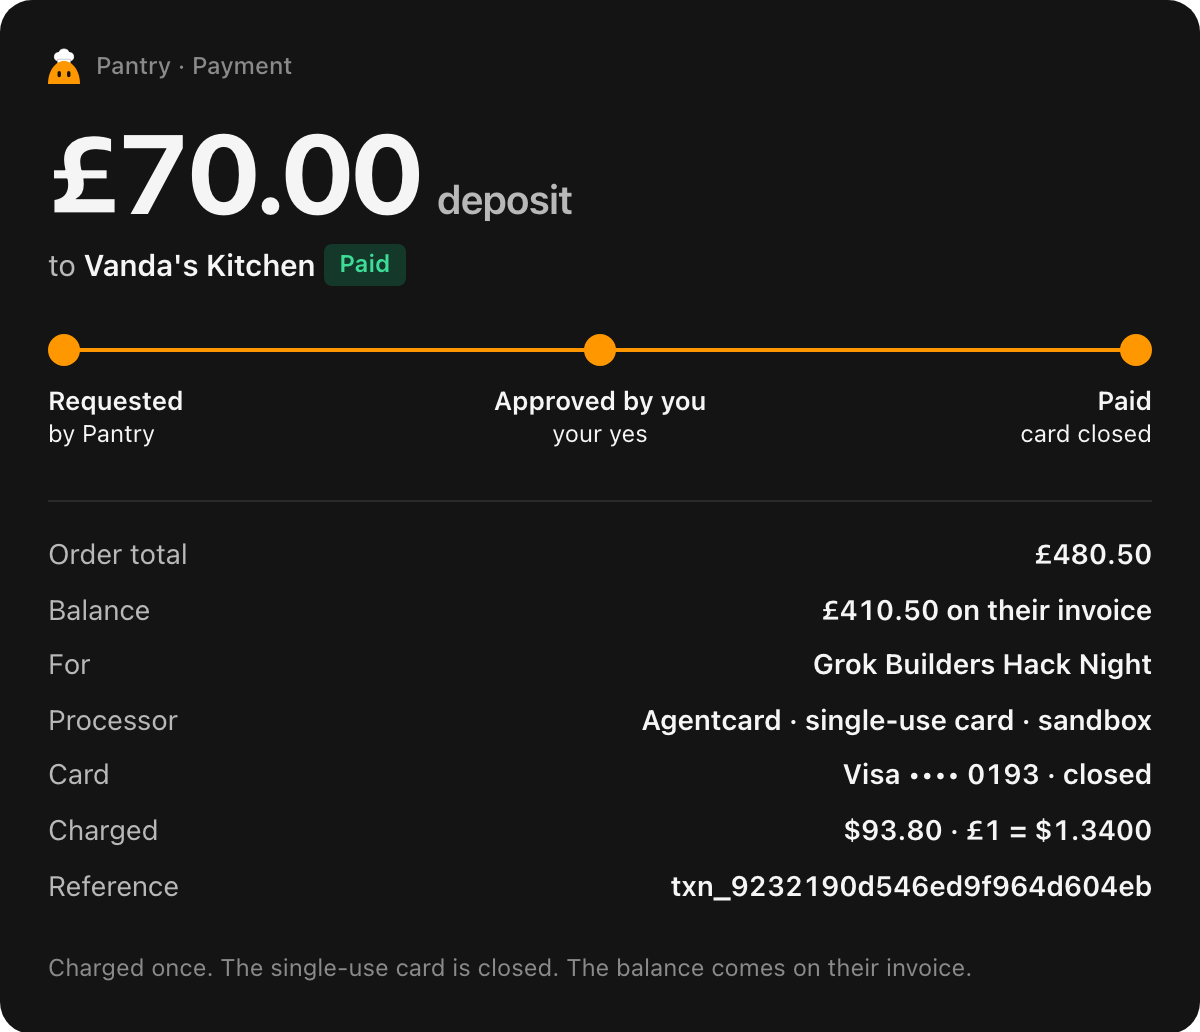
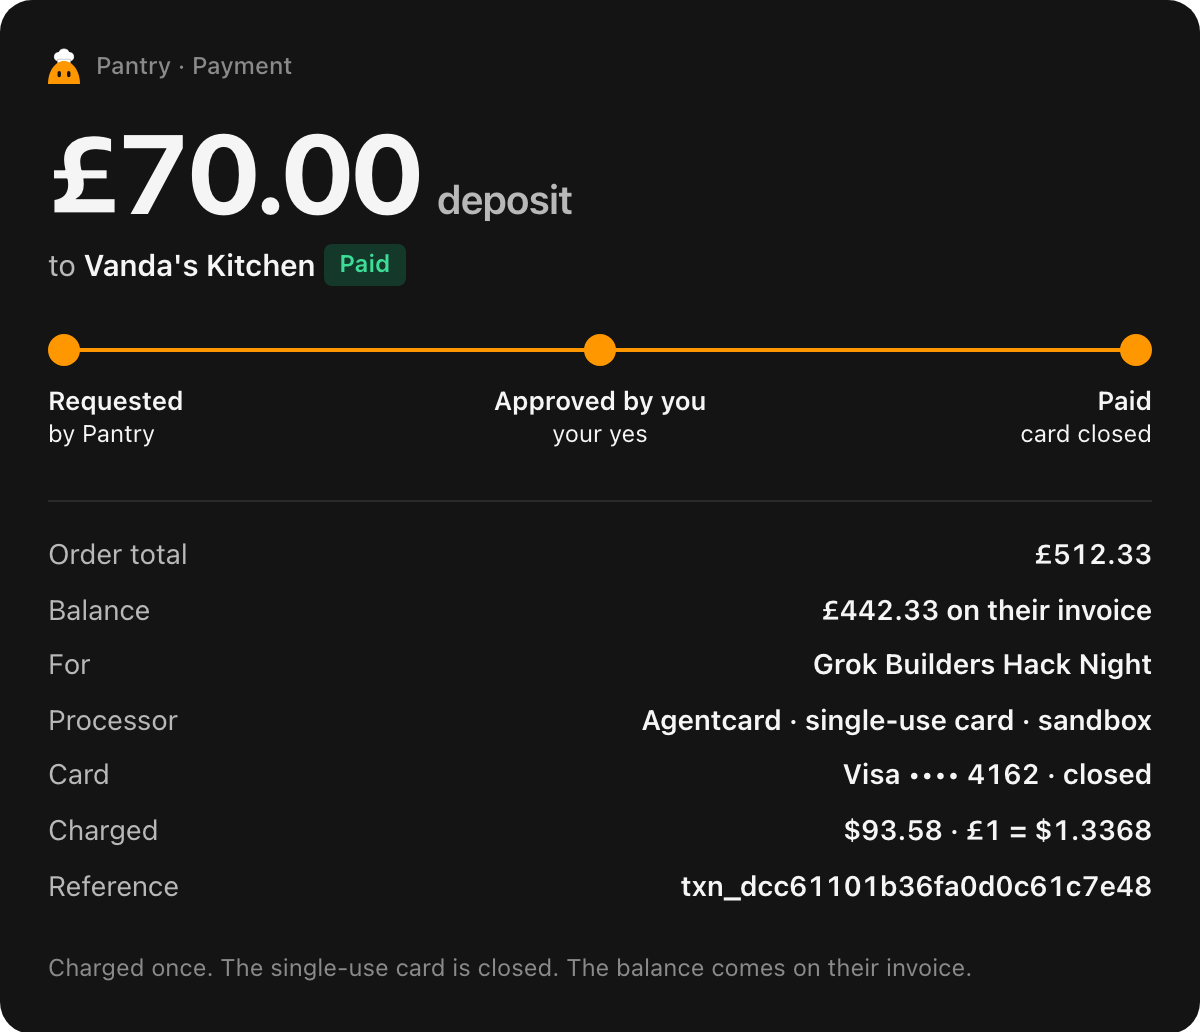
Stage: recordings pace the plays to their narration; the Grok driver waits for answers
- index.html: ?pace= stretches the plays, ?cues.<play>= sets one play's cue times in seconds.
- bin/grok: wait (until Pantry has finished, from Grok Bot's own "is working" status), busy in
  state, image ... recent (only a card in the newest messages), and the viewer's close button.
- How it works shows cards from the real plan: £512.33, the coeliac meal, the £70 deposit receipt.

diff --git a/story/streamdeck/src/grok.swift b/story/streamdeck/src/grok.swift
@@ -3,12 +3,13 @@
 //   grok prompt "<text>"    put the text in Pantry's message box (doesn't send)
 //   grok send               press Send message
 //   grok pantry             open Pantry's chat
-//   grok image [n]          open the nth-from-last card in the chat full screen (1 = the latest)
+//   grok image [n] [recent] open the nth-from-last card full screen (1 = the latest); recent: only if it's new
 //   grok close              close the full-screen image (or any open dialog)
 //   grok compact on|off     the compact sidebar (on hides the other Bots' names)
 //   grok fill [left|right]  fit the window to the screen it's on, below the menu bar (or its left/right half)
 //   grok at x y w h         move and size the window (points, top-left origin)
-//   grok state              JSON: frontmost app, chat, composer text, send button, window frame
+//   grok wait [seconds]     wait until Pantry has finished working (default up to 300 s); prints how long it took
+//   grok state              JSON: frontmost app, chat, busy, composer text, send button, images, window frame
 // Needs Accessibility for the terminal (or app) that runs it.
 import AppKit
 import ApplicationServices
@@ -52,6 +53,8 @@ func chatName() -> String {
   walk(header)
   return name
 }
+// While a Bot is replying, Grok Bot keeps an accessibility status line: "<Bot> is working".
+func busy() -> Bool { elements().contains { str($0, kAXRoleAttribute) == "AXStaticText" && str($0, kAXValueAttribute).hasSuffix(" is working") } }
 func setFrame(_ r: CGRect) {
   guard let w = mainWindow() else { die("No Grok Bot window.") }
   var p = r.origin, s = r.size
@@ -92,9 +95,11 @@ case "image":
   let n = a.count > 2 ? max(1, Int(a[2]) ?? 1) : 1
   let images = find("AXButton", "Open image full screen")
   guard images.count >= n else { die("Only \(images.count) images in view.") }
+  // "recent": only an image in the newest messages, near the bottom of the window, never an old one.
+  if a.contains("recent"), let w = mainWindow().map(frame), frame(images[images.count - 1]).maxY < w.maxY - 260 { die("No new image at the bottom of the chat.") }
   print(press(images[images.count - n]) ? "opened image \(n) from the end" : "couldn't open it")
 case "close":
-  let close = elements().filter { str($0, kAXRoleAttribute) == "AXButton" && ["Close", "Close image", "Close viewer", "Close full screen"].contains(label($0)) }
+  let close = elements().filter { str($0, kAXRoleAttribute) == "AXButton" && ["Close media preview", "Close", "Close image", "Close viewer"].contains(label($0)) }
   guard let c = close.last else { die("Nothing open to close.") }
   print(press(c) ? "closed" : "couldn't close")
 case "compact":
@@ -113,10 +118,20 @@ case "at":
   guard a.count > 5, let x = Double(a[2]), let y = Double(a[3]), let w = Double(a[4]), let h = Double(a[5]) else { die("usage: grok at x y w h") }
   setFrame(CGRect(x: x, y: y, width: w, height: h))
   print("window", mainWindow().map(frame).map { "\(Int($0.minX)),\(Int($0.minY)) \(Int($0.width))x\(Int($0.height))" } ?? "?")
+case "wait":
+  let limit = a.count > 2 ? Double(a[2]) ?? 300 : 300
+  let start = Date()
+  _ = waitFor({ busy() }, 6)
+  var quiet: Date? = nil
+  while Date().timeIntervalSince(start) < limit {
+    if busy() { quiet = nil } else if quiet == nil { quiet = Date() } else if Date().timeIntervalSince(quiet!) > 3 { break }
+    usleep(500_000)
+  }
+  print(String(format: "done in %.0f s", Date().timeIntervalSince(start) - 3))
 case "state":
   let f = mainWindow().map(frame) ?? .zero
   let text = composer().map { str($0, kAXValueAttribute).trimmingCharacters(in: .whitespacesAndNewlines) } ?? ""
-  let obj: [String: Any] = ["front": NSWorkspace.shared.frontmostApplication?.localizedName ?? "", "chat": chatName(), "composer": text,
+  let obj: [String: Any] = ["front": NSWorkspace.shared.frontmostApplication?.localizedName ?? "", "chat": chatName(), "busy": busy(), "composer": text,
     "canSend": !find("AXButton", "Send message").isEmpty, "images": find("AXButton", "Open image full screen").count,
     "window": [Int(f.minX), Int(f.minY), Int(f.width), Int(f.height)]]
   print(String(data: try! JSONSerialization.data(withJSONObject: obj, options: [.sortedKeys]), encoding: .utf8)!)

diff --git a/story/index.html b/story/index.html
@@ -651,6 +651,16 @@ Demo budget: 1:45. Come back with &quot;3&quot; for the close.">
       hasTonight ? [[6000, 's-changed', 3], [9000, 's-vision', 0], [12000, 's-vision', 1], [17000, 's-end', 0], [19500, 's-end', 1], [22500, 's-end', 2]]
                  : [[7000, 's-vision', 0], [10000, 's-vision', 1], [15000, 's-end', 0], [17500, 's-end', 1], [20500, 's-end', 2]])
   };
+  // A recording can pace the plays to its narration: ?pace=1.3 stretches every play, ?pace=scene:1.2,wrap:1.4
+  // one at a time, and ?cues.scene=0,6.5,8,… gives one play's cue times in seconds (one per cue).
+  {
+    const pace = q.get('pace') ?? '';
+    for (const name of Object.keys(PLAYS)) {
+      const k = Number(pace.split(',').find(p => p.startsWith(`${name}:`))?.split(':')[1] ?? (/^[\d.]+$/.test(pace) ? pace : 1));
+      const times = (q.get(`cues.${name}`) ?? '').split(',').filter(Boolean).map(Number);
+      PLAYS[name] = PLAYS[name].map(([ms, id, st], i) => [times.length === PLAYS[name].length ? times[i] * 1000 : ms * (k > 0 ? k : 1), id, st]);
+    }
+  }
   let play = null, cue = 0, timer = null;
   function blank(on) { document.body.classList.toggle('blank', on); }
   function applyCue() {
